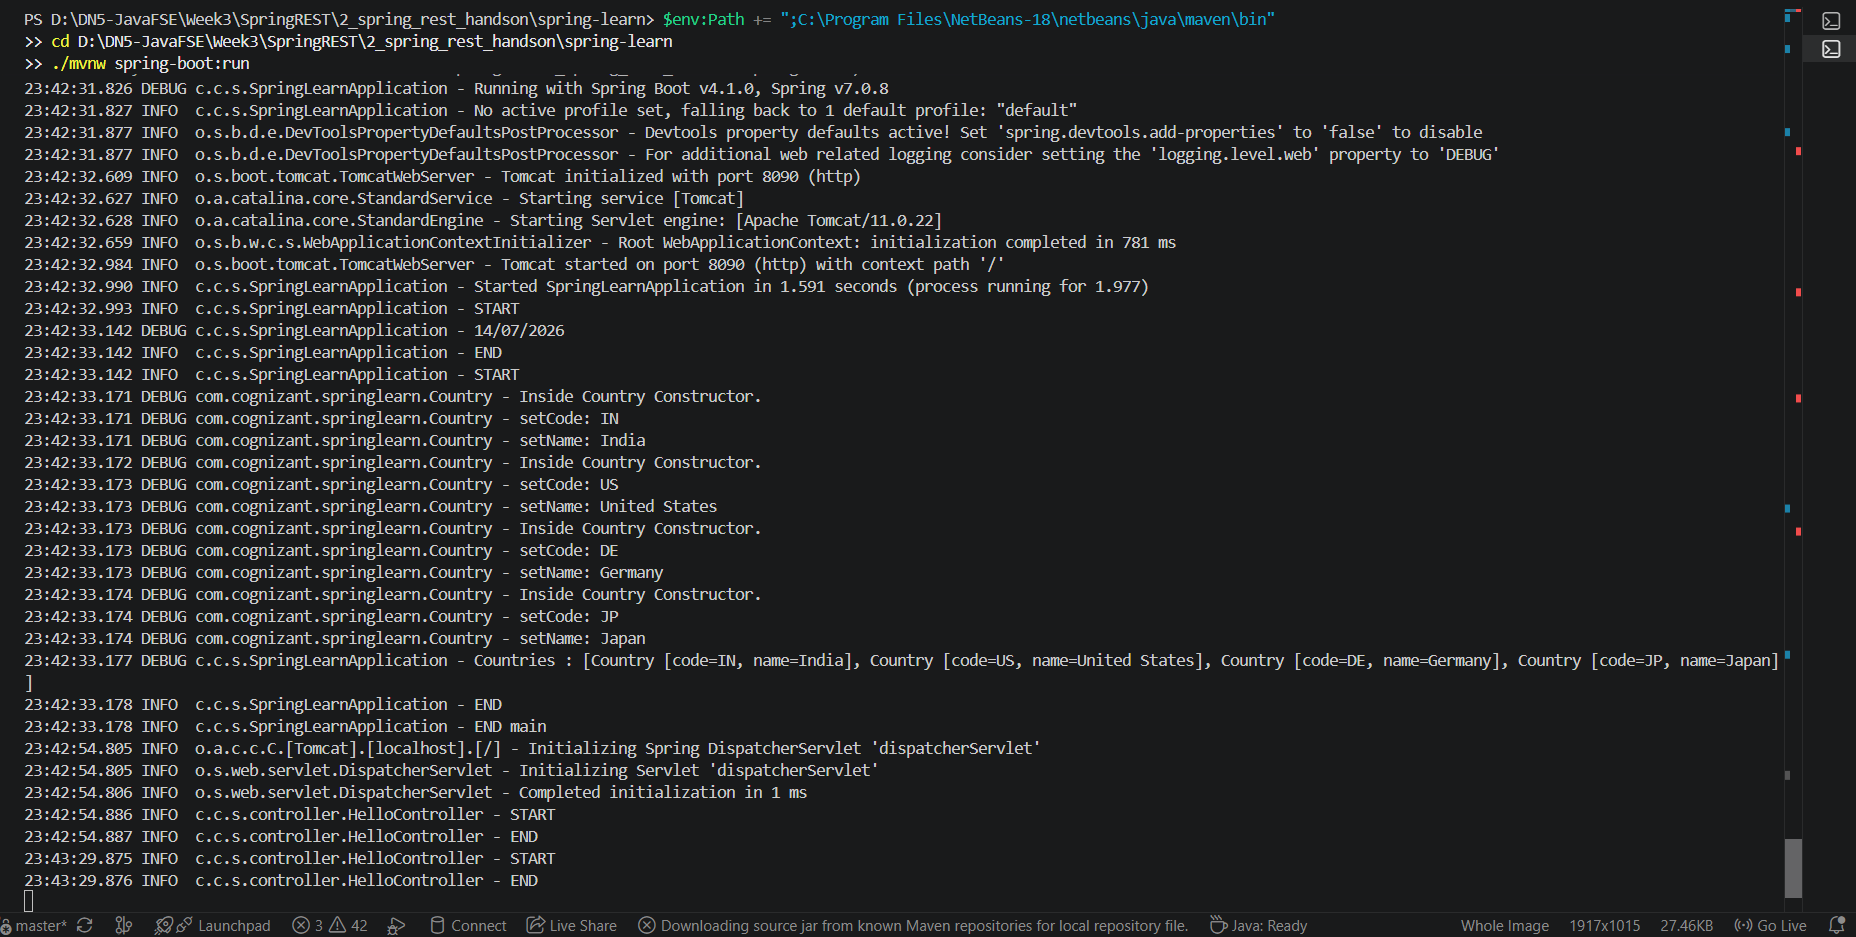
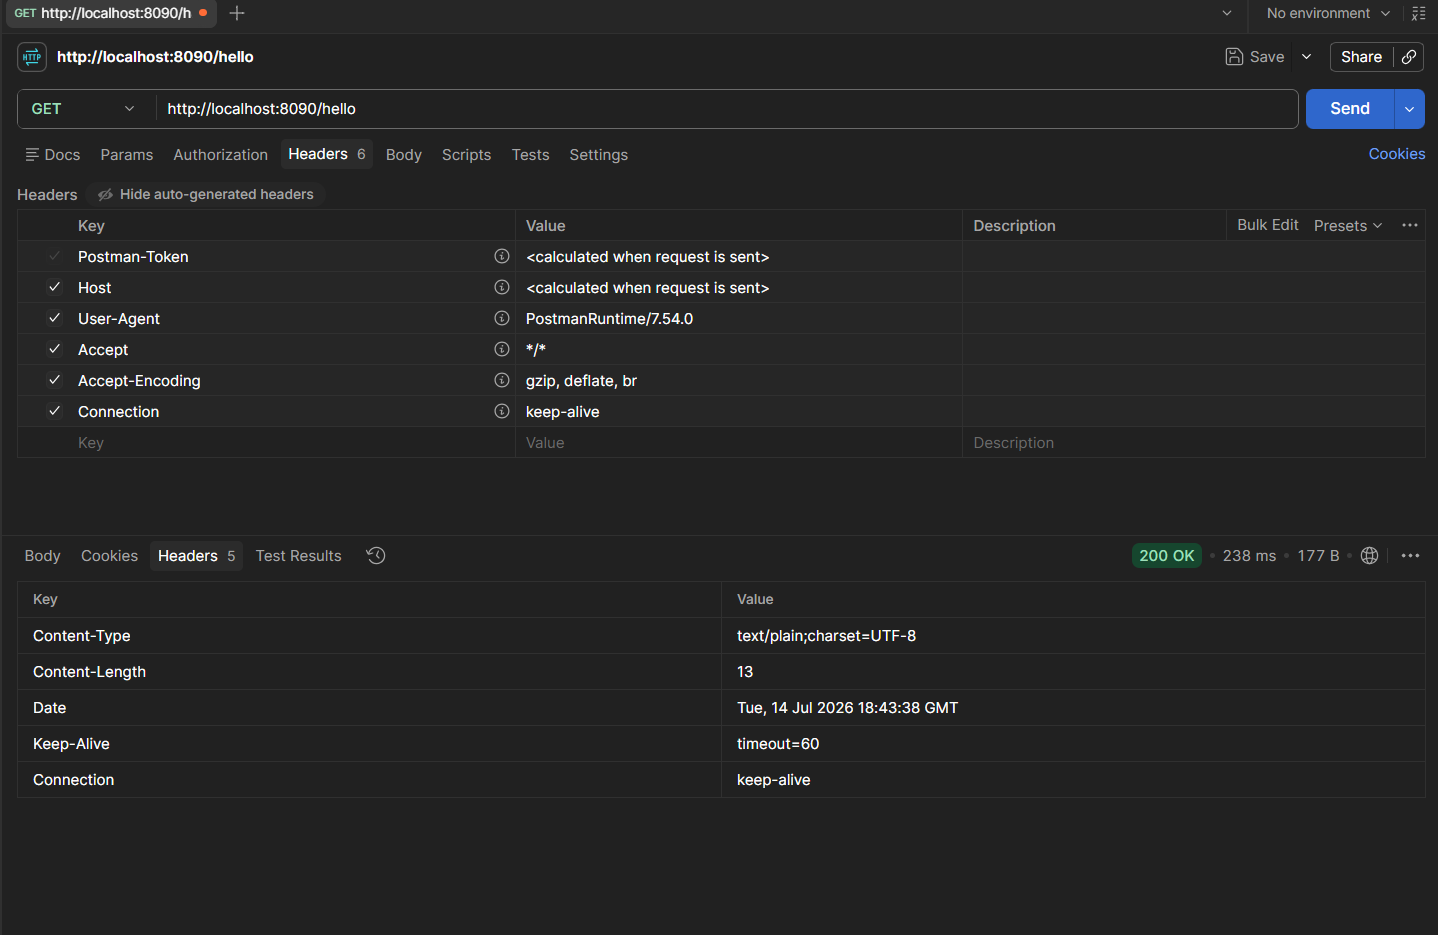
Week3: Ex8 - CountryControllerRestGet complete

diff --git a/Week3/SpringREST/2_spring_rest_handson/spring-learn/src/main/java/com/cognizant/springlearn/controller/CountryController.java b/Week3/SpringREST/2_spring_rest_handson/spring-learn/src/main/java/com/cognizant/springlearn/controller/CountryController.java
@@ -1,0 +1,26 @@
+package com.cognizant.springlearn.controller;
+
+import org.slf4j.Logger;
+import org.slf4j.LoggerFactory;
+import org.springframework.context.ApplicationContext;
+import org.springframework.context.support.ClassPathXmlApplicationContext;
+import org.springframework.web.bind.annotation.RequestMapping;
+import org.springframework.web.bind.annotation.RestController;
+
+import com.cognizant.springlearn.Country;
+
+@RestController
+public class CountryController {
+
+	private static final Logger LOGGER = LoggerFactory.getLogger(CountryController.class);
+
+	@RequestMapping("/country")
+	public Country getCountryIndia() {
+		LOGGER.info("START");
+		ApplicationContext context = new ClassPathXmlApplicationContext("country.xml");
+		Country country = context.getBean("in", Country.class);
+		LOGGER.info("END");
+		return country;
+	}
+
+}